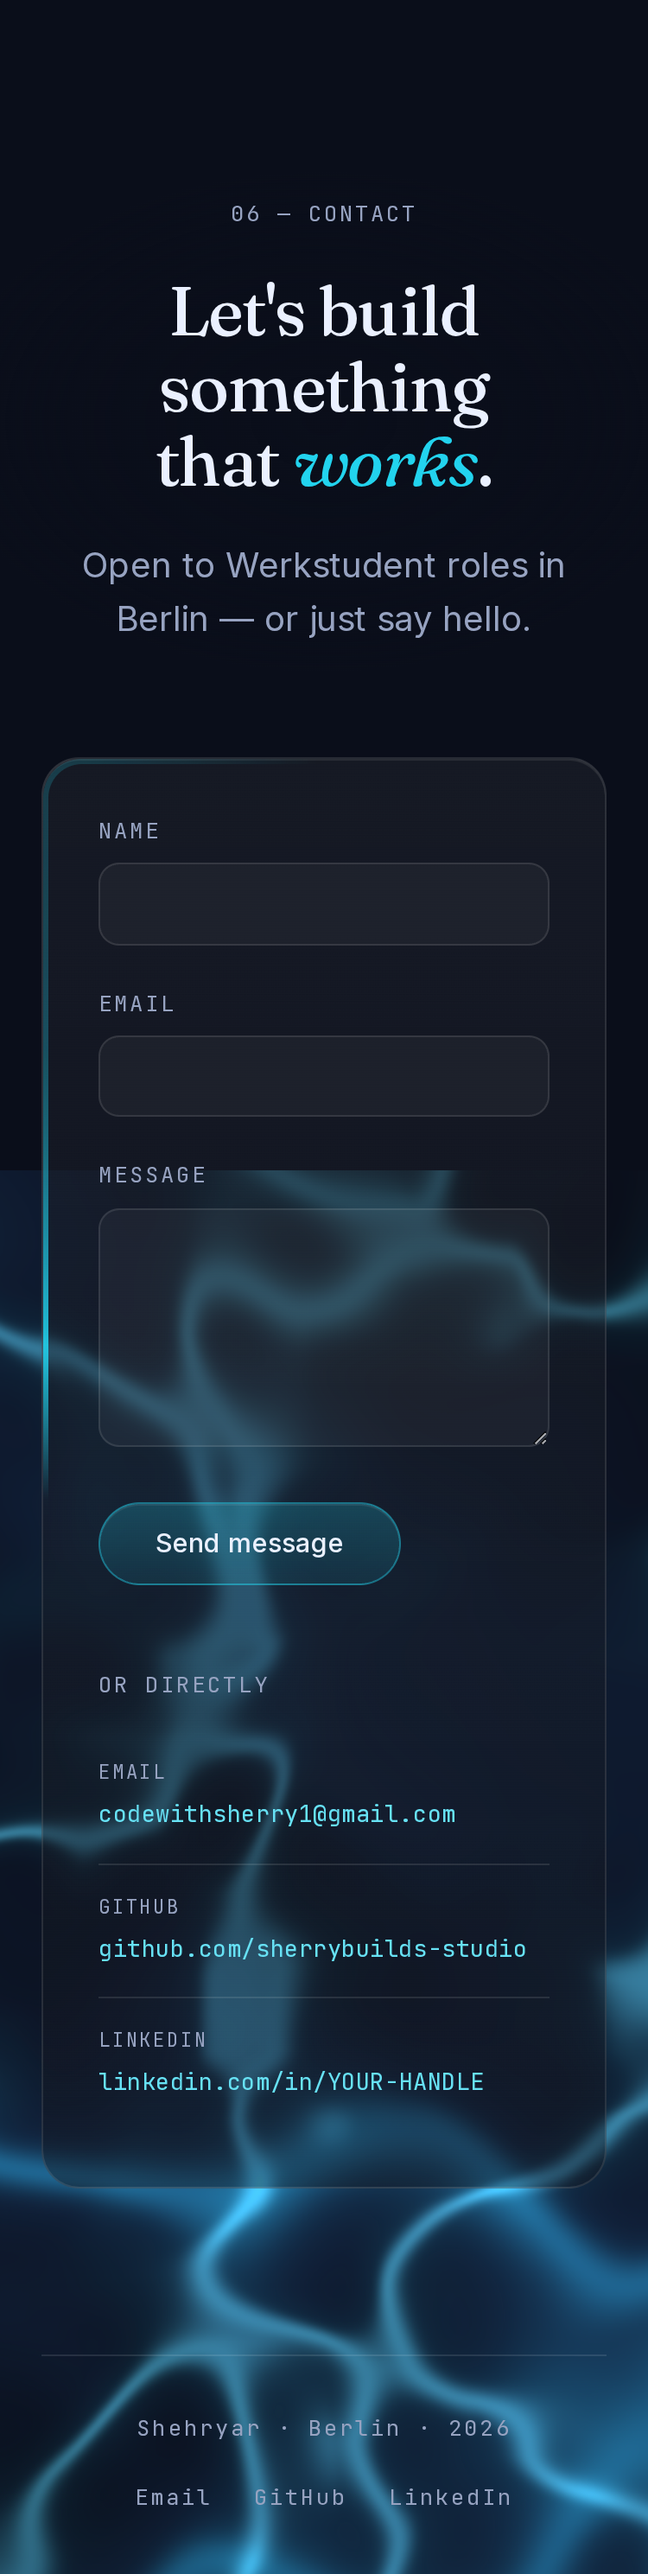
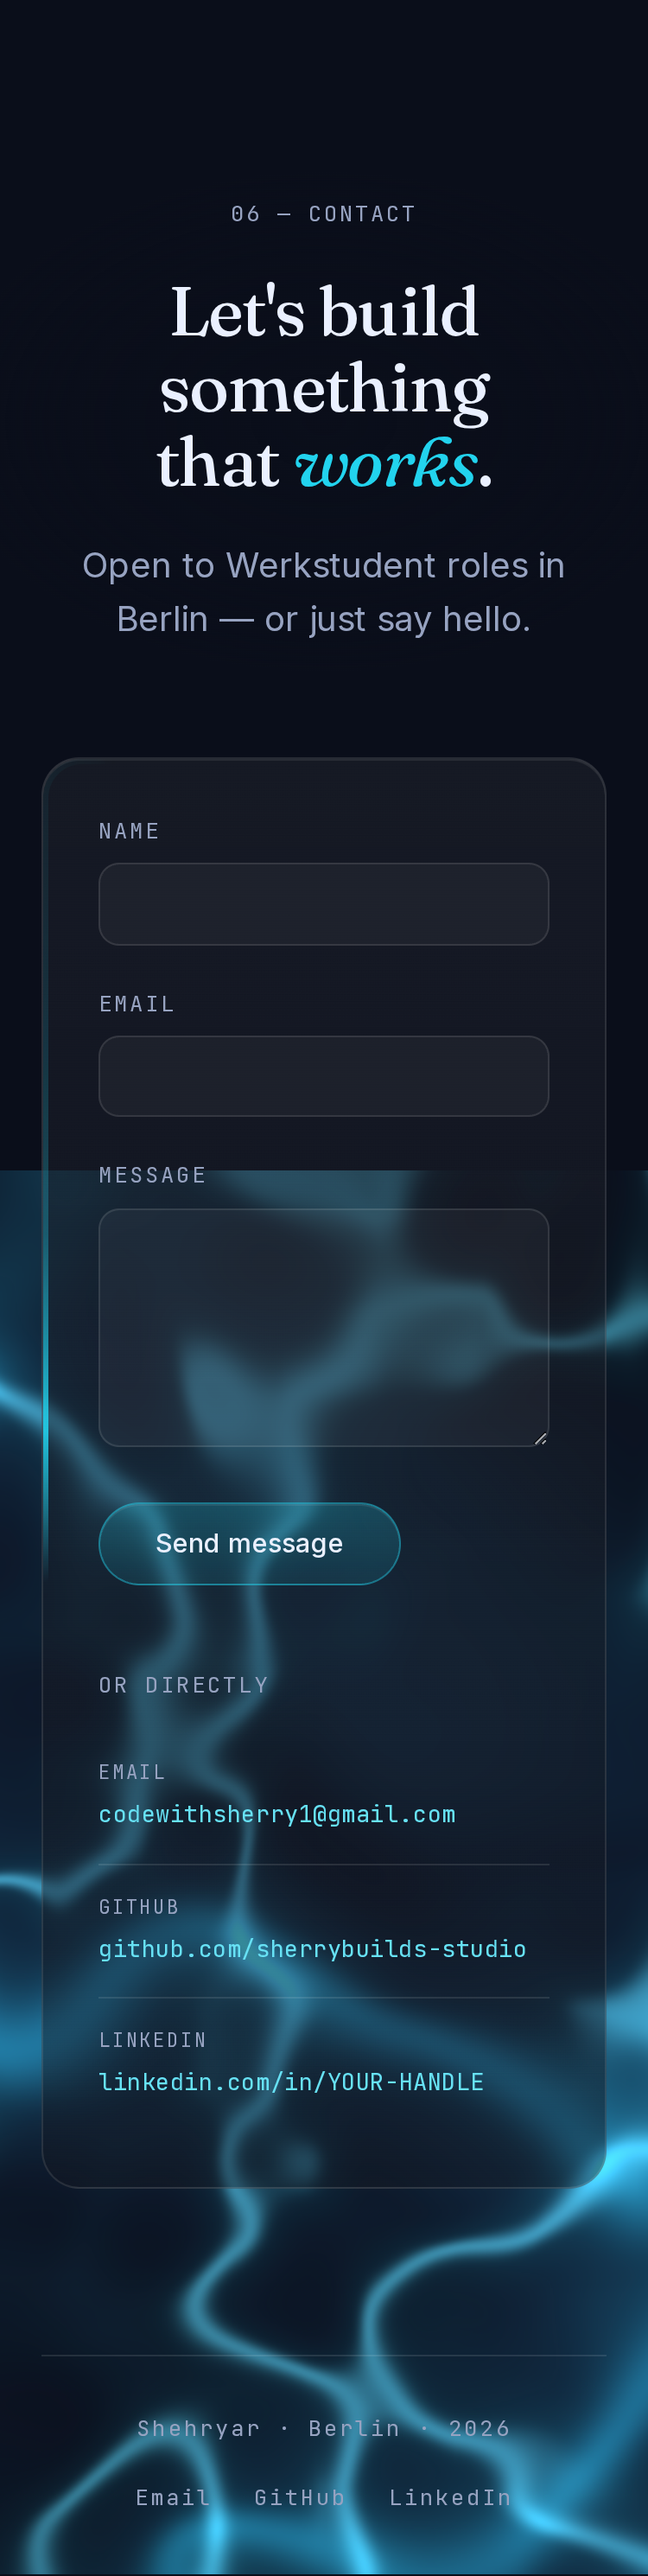
feat(portfolio-dark): per-section background storytelling — one morphing shader
PART B. The single ferrofluid shader now morphs through a distinct mood
per chapter, eased continuously from the section under the viewport
centre (measured from real [data-chapter] rects), so it shifts as you
move and reverses cleanly on scroll-up — no second background system,
no hard cuts.

Replaced the crude single uMoment with 5 mood uniforms (flow speed,
cyan mix, turbulence/churn, warm-indigo shift, brightness), each lerped
toward the target at 0.045/frame:
  Hero    calm, slow, deep navy       Work   more energy, richer glow
  Proof   tighter, brighter cyan      How    directional churn
  Stack   faster subtle churn         About  calm again, warm settle
  Contact bright, inviting, most cyan
Flow SPEED is driven from the mood (integrated phase, still breathing);
turbulence scales the domain warp; colour eases cyan<->indigo; brightness
per section. Verified: Hero reads soft/dim, Contact bright/cyan — clearly
distinct, background-only captures confirm the shift.

prefers-reduced-motion: one static RICH frame (mid-mood), no loop —
verified identical pixels over time.

PART A (from the earlier perf pass) re-verified still holding: 1
pin-spacer (Stack only), glass cards backdrop-filter:none, Lenis+
ScrollTrigger on one ticker loop, one-shot reveals, fluid 30fps + tab-
hidden pause. 0 console errors, 0 overflow across all 7 sections.

diff --git a/src/components/portfolio-dark/Ferrofluid.tsx b/src/components/portfolio-dark/Ferrofluid.tsx
@@ -24,8 +24,13 @@ uniform float uTime;
 uniform vec2 uRes;
 uniform float uIntensity;
 uniform float uDetail;
-uniform float uScroll; /* 0..1 page progress — depth as you move through */
-uniform float uMoment; /* sin(uScroll*PI): each section = a different moment */
+uniform float uScroll; /* 0..1 page progress — camera depth (pan + zoom) */
+/* per-section mood, all eased in JS between the 7 chapter states so the
+   ONE shader morphs continuously through moods (never a hard cut): */
+uniform float uCyan;   /* cyan mix in the tendrils (glow warmth) */
+uniform float uTurb;   /* domain-warp amount — churn / chaos */
+uniform float uWarm;   /* shift toward indigo for the About settle */
+uniform float uBright; /* overall intensity */
 
 float hash(vec2 p) { return fract(sin(dot(p, vec2(127.1, 311.7))) * 43758.5453); }
 
@@ -56,20 +61,21 @@ void main() {
   vec2 p = vec2(uv.x * uRes.x / uRes.y, uv.y) * (1.4 + 0.18 * uScroll);
   p += vec2(uScroll * 0.3, uScroll * 0.85);
 
-  float t = uTime * 0.05; // continuous, slow
+  float t = uTime * 0.05; // continuous, slow (flow SPEED eased in JS via uTime)
 
-  // domain warp — the "magnetic" flow
-  vec2 warp = vec2(fbm(p + vec2(0.0, 3.7), t), fbm(p + vec2(5.2, 1.3), t * 0.85));
+  // domain warp — the "magnetic" flow; uTurb drives churn per section
+  vec2 warp = vec2(fbm(p + vec2(0.0, 3.7), t), fbm(p + vec2(5.2, 1.3), t * 0.85)) * uTurb;
 
   vec3 blue = vec3(0.231, 0.51, 0.965);   /* --accent-2 #3B82F6 */
   vec3 cyan = vec3(0.133, 0.827, 0.933);  /* --accent   #22D3EE */
   vec3 hot  = vec3(0.62, 0.94, 1.0);      /* near-white cyan for cores */
+  vec3 warm = vec3(0.42, 0.40, 0.92);     /* indigo — the About settle */
 
-  /* section "moment": core hue eases cyan -> deeper blue mid-page and
-     back; halos counter-shift slightly, so each chapter has its own
-     temperature inside one continuous space */
-  vec3 coreCol = mix(cyan, blue * 1.15, uMoment * 0.4);
-  vec3 haloCol = mix(blue * 0.8, cyan * 0.85, uMoment * 0.3);
+  /* tendril colour eased per section: more cyan where uCyan is high,
+     shifting toward indigo where uWarm is high (About). One continuous
+     morph, no hard cuts. */
+  vec3 coreCol = mix(mix(blue * 1.05, cyan, uCyan), warm, uWarm);
+  vec3 haloCol = mix(mix(blue * 0.8, cyan * 0.85, uCyan * 0.7), warm * 0.7, uWarm);
 
   float glow = 0.0;
   vec3 col = vec3(0.0);
@@ -107,8 +113,8 @@ void main() {
   glow *= vig;
   col *= vig;
 
-  // deeper into the page = slightly warmer + a lift at each moment peak
-  float k = uIntensity * (1.0 + 0.15 * uScroll) * (1.0 + 0.06 * uMoment);
+  // depth lift with scroll, brightness eased per section
+  float k = uIntensity * (1.0 + 0.15 * uScroll) * uBright;
   float alpha = clamp(glow, 0.0, 1.0) * k;
   gl_FragColor = vec4(col * k, alpha); /* premultiplied */
 }
@@ -164,7 +170,10 @@ export default function Ferrofluid() {
     const uIntensity = gl.getUniformLocation(prog, "uIntensity");
     const uDetail = gl.getUniformLocation(prog, "uDetail");
     const uScroll = gl.getUniformLocation(prog, "uScroll");
-    const uMoment = gl.getUniformLocation(prog, "uMoment");
+    const uCyan = gl.getUniformLocation(prog, "uCyan");
+    const uTurb = gl.getUniformLocation(prog, "uTurb");
+    const uWarm = gl.getUniformLocation(prog, "uWarm");
+    const uBright = gl.getUniformLocation(prog, "uBright");
 
     // Mobile matches desktop richness: full 3-tier detail + near-equal
     // intensity. Affordable because the phone canvas has ~4x fewer pixels
@@ -172,7 +181,26 @@ export default function Ferrofluid() {
     gl.uniform1f(uIntensity, mobile ? 0.28 : 0.3);
     gl.uniform1f(uDetail, 2);
     gl.uniform1f(uScroll, 0);
-    gl.uniform1f(uMoment, 0);
+
+    // ── PER-SECTION MOOD STATES ──────────────────────────────────────────
+    // [flow speed, cyan mix, turbulence, warm(indigo), brightness].
+    // Order matches the 7 [data-chapter] sections top→bottom. The live
+    // values ease toward the section under the viewport centre, so the ONE
+    // shader morphs continuously through these moods and reverses cleanly.
+    const MOODS = [
+      [0.62, 0.45, 0.85, 0.0, 0.9], // Hero    — calm, slow, deep navy
+      [0.85, 0.68, 0.72, 0.0, 1.0], // Proof   — tighter, focused, brighter cyan
+      [1.2, 0.85, 1.15, 0.0, 1.12], // Work    — more energy, richer glow
+      [1.0, 0.66, 1.05, 0.0, 1.0], // How      — directional churn (process)
+      [1.45, 0.72, 1.28, 0.0, 1.02], // Stack  — faster subtle churn
+      [0.66, 0.5, 0.7, 0.45, 0.9], // About    — calm again, warm settle
+      [0.98, 1.0, 0.9, 0.06, 1.22], // Contact — bright, inviting, most cyan
+    ];
+    const N = MOODS.length;
+    const lerp = (a: number, b: number, f: number) => a + (b - a) * f;
+    // live (eased) + target mood, 5 params each
+    const mood = MOODS[0].slice();
+    const target = MOODS[0].slice();
 
     // page progress → shader depth (skipped under reduced motion)
     let scrollTarget = 0;
@@ -196,26 +224,54 @@ export default function Ferrofluid() {
     resize();
     window.addEventListener("resize", resize);
 
-    // Flow phase is INTEGRATED (not raw time) so speed can ease with scroll
-    // and breathe organically without time-jumps.
+    // Flow phase is INTEGRATED (not raw time) so its SPEED can ease per
+    // section and breathe organically without time-jumps.
     let phase = 40; // also the static frame for reduced motion
     let lastT: number | null = null;
+
+    // Interpolate the mood for the current scroll position from the actual
+    // section centres, so each chapter genuinely owns a state. Cheap: 7
+    // getBoundingClientRect reads at 30fps.
+    const computeTarget = () => {
+      const secs = document.querySelectorAll<HTMLElement>("[data-chapter]");
+      const n = Math.min(secs.length, N);
+      if (n < 2) return; // sections not laid out yet — keep MOODS[0]
+      const focus = window.scrollY + window.innerHeight * 0.5;
+      const centre = (el: HTMLElement) => {
+        const r = el.getBoundingClientRect();
+        return r.top + window.scrollY + r.height * 0.5;
+      };
+      let i = 0;
+      while (i < n - 1 && centre(secs[i + 1]) < focus) i++;
+      // blend between section i and i+1 by where focus sits between centres
+      const c0 = centre(secs[i]);
+      const c1 = centre(secs[Math.min(i + 1, n - 1)]);
+      let f = c1 > c0 ? (focus - c0) / (c1 - c0) : 0;
+      f = Math.min(1, Math.max(0, f));
+      f = f * f * (3 - 2 * f); // smoothstep
+      const a = MOODS[i];
+      const b = MOODS[Math.min(i + 1, N - 1)];
+      for (let k = 0; k < 5; k++) target[k] = lerp(a[k], b[k], f);
+    };
 
     const draw = (timeSec: number) => {
       // eased follow so the depth shift glides with Lenis, never snaps
       scrollCurrent += (scrollTarget - scrollCurrent) * 0.06;
-      const moment = Math.sin(Math.min(Math.max(scrollCurrent, 0), 1) * Math.PI);
+
+      computeTarget();
+      for (let k = 0; k < 5; k++) mood[k] += (target[k] - mood[k]) * 0.045; // slow, tasteful
 
       const dt = lastT === null ? 0 : Math.min(timeSec - lastT, 0.1);
       lastT = timeSec;
-      // organic breathing (slow irregular pulse) + gentle per-moment easing —
-      // "more alive", never simply faster
-      const speed =
-        1.0 + 0.18 * moment + 0.1 * Math.sin(timeSec * 0.13) + 0.05 * Math.sin(timeSec * 0.041);
-      phase += dt * speed;
+      // organic breathing on top of the per-section flow speed
+      const breath = 0.12 * Math.sin(timeSec * 0.13) + 0.06 * Math.sin(timeSec * 0.041);
+      phase += dt * mood[0] * (1.0 + breath);
 
       gl.uniform1f(uScroll, scrollCurrent);
-      gl.uniform1f(uMoment, moment);
+      gl.uniform1f(uCyan, mood[1]);
+      gl.uniform1f(uTurb, mood[2]);
+      gl.uniform1f(uWarm, mood[3]);
+      gl.uniform1f(uBright, mood[4]);
       gl.uniform1f(uTime, phase);
       gl.clearColor(0, 0, 0, 0);
       gl.clear(gl.COLOR_BUFFER_BIT);
@@ -224,7 +280,16 @@ export default function Ferrofluid() {
 
     let raf = 0;
     if (reduced) {
-      draw(40); // static blue gradient frame — no loop under reduced motion
+      // static RICH frame, no morphing loop (accessibility): a mid-mood blend
+      gl.uniform1f(uScroll, 0.4);
+      gl.uniform1f(uCyan, 0.8);
+      gl.uniform1f(uTurb, 1.0);
+      gl.uniform1f(uWarm, 0.0);
+      gl.uniform1f(uBright, 1.1);
+      gl.uniform1f(uTime, 40);
+      gl.clearColor(0, 0, 0, 0);
+      gl.clear(gl.COLOR_BUFFER_BIT);
+      gl.drawArrays(gl.TRIANGLES, 0, 3);
     } else {
       // PERF: cap to ~30fps (a soft ambient background gains nothing from 60)
       // and PAUSE entirely when the tab is hidden — the fixed full-viewport
